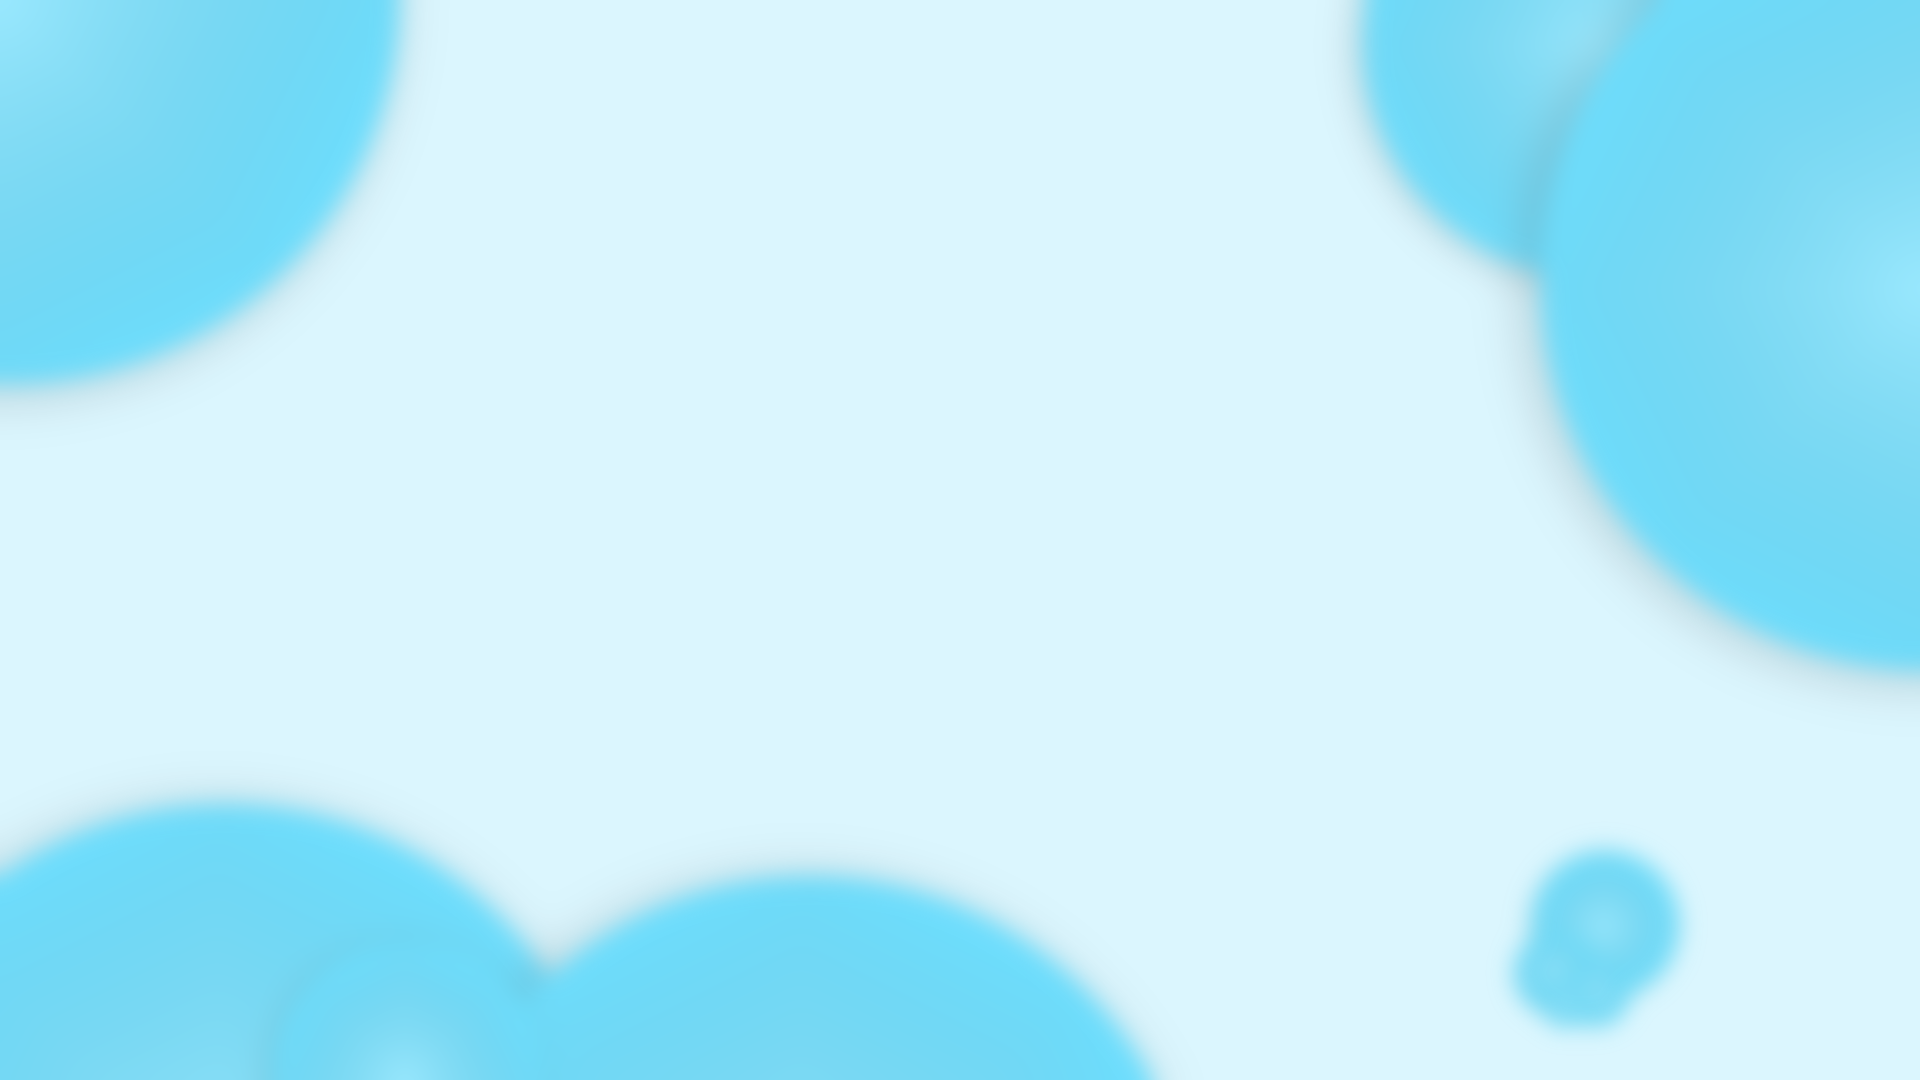
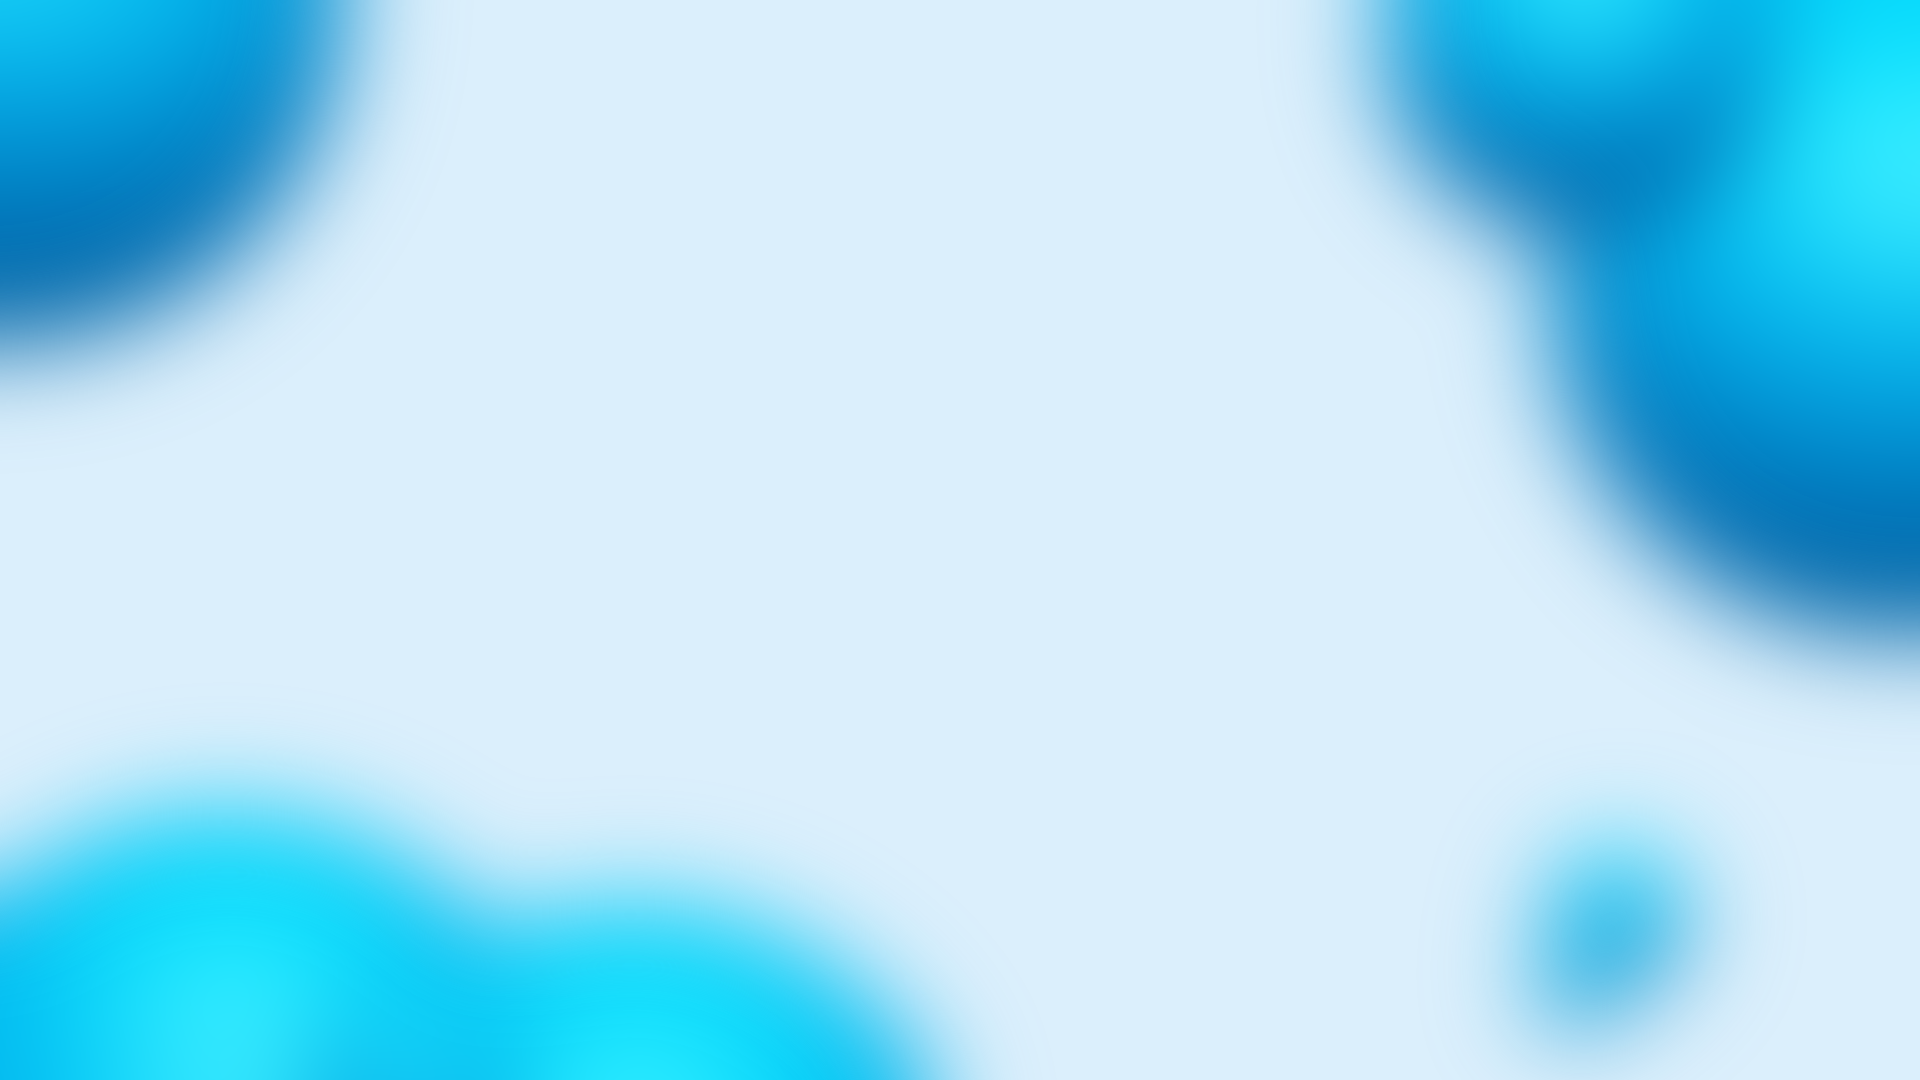
Delete file

diff --git a/css/style.css b/css/style.css
@@ -39,14 +39,14 @@ body {
   font-size: 18px;
   width: 100%;
   height: 100%;
-  /* background: url("../img/bg-mine.png") fixed center center no-repeat; */
+  background: url("../img/bg-mine.png") fixed center center no-repeat;
   background-size: cover;
   z-index: 0;
   min-width: 320px;
 }
 
-.bg {
-  background-image: url('../img/bg-addons.png');
+.bubble__body--middle {
+  background-image: url('../img/bubble_body-middle.png');
   background-position: 0% 0;
   background-repeat: repeat-y;
   background-size: 100%;
@@ -55,6 +55,18 @@ body {
   height: 100%;
   z-index: 1;
   transition: all 1s cubic-bezier(0, 1.28, 0.36, 2.08);
+}
+
+.bubble__body--top {
+  background-image: url('../img/bubble_body-top.png');
+  background-position: 0% 0;
+  background-repeat: repeat-y;
+  background-size: 100%;
+  position: fixed;
+  width: 100%;
+  height: 100%;
+  z-index: 1;
+  transition: all 0.8s cubic-bezier(0, 1.28, 0.36, 2.08);
 }
 
 /* ---------------------------------------------Preloader --------------------------------------------- */
@@ -352,7 +364,7 @@ header {
 .title-img {
   width: 50%;
   min-width: 340px;
-  /* filter: hue-rotate(325deg) drop-shadow(0px 0px 10px #00000025); */
+  filter: drop-shadow(0px 0px 10px #00000025);
 }
 
 @media screen and (max-height: 490px) {
@@ -556,7 +568,7 @@ h2 {
 }
 
 .card-preview img {
-/*   filter: brightness(0.9); */
+  filter: brightness(0.9);
   z-index: 5;
   width: 100%;
   min-height: 160px;
@@ -586,17 +598,17 @@ h2 {
   opacity: 0;
   transition: all 0.2s;
   transform: translateY(20px);
-/*   filter: blur(5px); */
+  filter: blur(5px);
 }
 
 .project-item:hover .card-preview::after {
   opacity: 1;
-/*   filter: blur(0); */
+  filter: blur(0);
   transform: translateY(0px);
 }
 
 .project-item:hover .card-preview img {
-/*   filter: brightness(0.4); */
+  filter: brightness(0.4);
 }
 
 @media screen and (max-width: 610px) {
@@ -696,6 +708,7 @@ details summary {
   font-size: 1.25rem;
   font-weight: 300;
   list-style: none;
+  font-weight: 400;
 }
 
 details summary:after {

diff --git a/script.js b/script.js
@@ -18,7 +18,8 @@ var sections = $('section')
 $(window).on('scroll', function () {
   var cur_pos = $(this).scrollTop();
 
-  document.querySelector('.bg').style.backgroundPosition = '50% -' + (window.pageYOffset / 2.5) + "px";
+  document.querySelector('.bubble__body--middle').style.backgroundPosition = '50% -' + (window.pageYOffset / 3) + "px";
+  document.querySelector('.bubble__body--top').style.backgroundPosition = '50% -' + (window.pageYOffset / 1.5) + "px";
 
   sections.each(function () {
     var top = $(this).offset().top - nav_height,

diff --git a/index.html b/index.html
@@ -12,7 +12,8 @@
 </head>
 
 <body>
-	<div class="bg"></div>
+	<div class="bubble__body--middle"></div>
+	<div class="bubble__body--top"></div>
 	<div class="load-wrapp">
 		<div class="load">
 			<div class="letter-holder">
